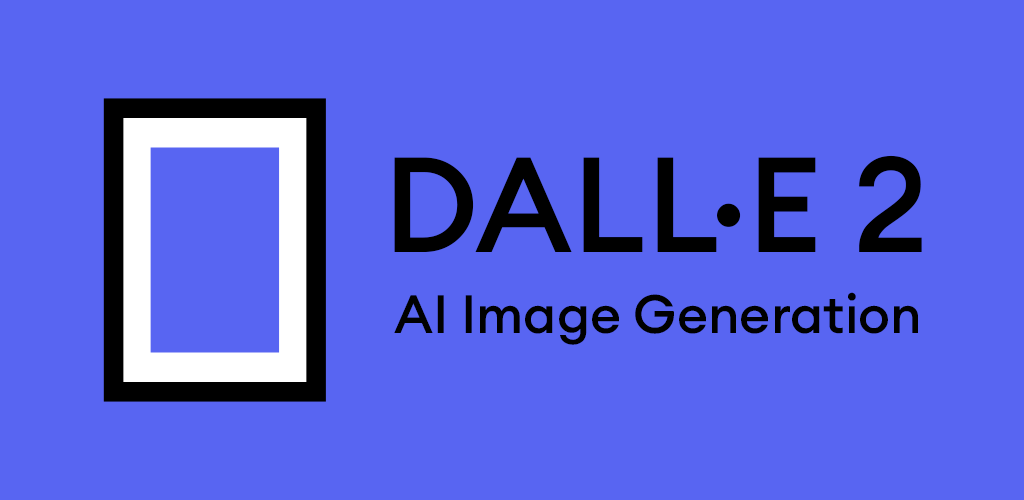
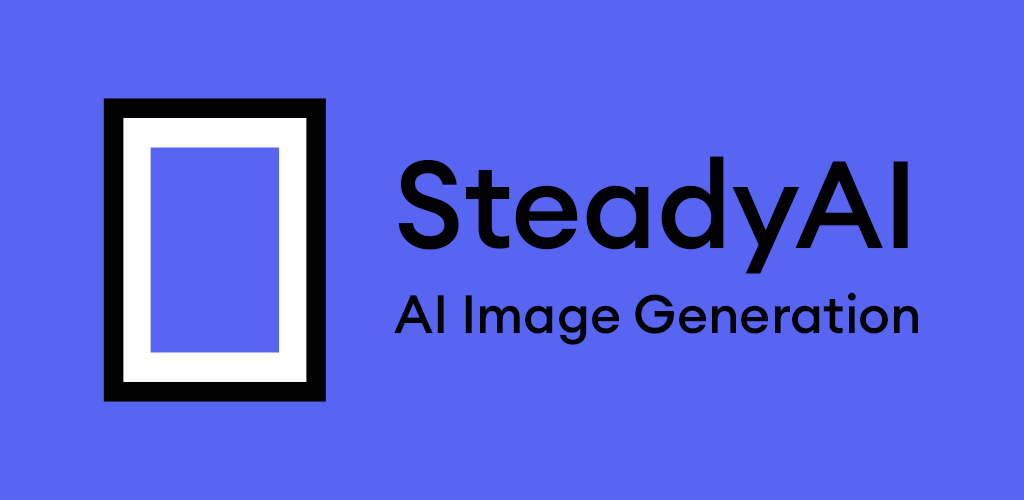
December 2023 update

Changed region(s): [[0.375, 0.3, 0.9062, 0.57]]

diff --git a/index.html b/index.html
@@ -30,12 +30,11 @@
 
             <div class="dalle-card">
                 <a href="https://play.google.com/store/apps/details?id=com.mtw.dev.dalle_2">
-                    
+                    assemble
                     <img src="./images/dalle-banner.png" alt="Dall-E 2 Banner">
-                    <h3>DALL·E 2</h3>
+                    <h3>SteadyAI</h3>
                     <p>
-                        The DALL·E 2 application can create stunning AI generated images with OpenAI's DALL·E 2.<br>
-                        Generated images have extreme quality and are being created ultra fast. 
+                        SteadyAI uses Stable Diffusion XL to create stunning AI-generated images in the highest quality and ChatGPT and even OpenAI's latest GPT-4 model to have top-notch conversations.
                     </p>
                 </a>
                 
@@ -54,6 +53,16 @@
             </div>
         </div>
         
+        <div class="SteadyAI">
+            <h2>SteadyAI</h2>
+            <p>SteadyAI uses Stable Diffusion XL to create stunning AI-generated images in the highest quality, ChatGPT and even OpenAI's latest GPT-4 model to have top-notch conversations, and OpenAI's Davinci to generate creative text completions.</p>
+            <br>
+            <p>Create images with the best AI models like Stable Diffusion with a description in natural language. Choose different styles to give your generations more character and download them to your gallery so they are always available offline.</p>
+            <img src="./images/image_generation-example.png" alt="Example of an image-generation">
+            <p>Chat with either ChatGPT or the most advanced AI model, GPT-4. ChatGPT and GPT-4 can generate human-like answers to text-based questions and solve complex problems with great precision thanks to a vast general knowledge and advanced argumentation skills. They are also suitable for generating creative stories, poems, and writing code.</p>
+            <img src="./images/text_generation-example.png" alt="Example of text-generation">
+            <p>SteadyAI is designed to assist you expanding your creativity and help you with difficult tasks using its collection of AI models.</p>
+        </div>
     </main>
     <footer>
         <svg class="svg" xmlns:xlink="http://www.w3.org/1999/xlink" aria-hidden="true" width="911" height="8" fill="none" xmlns="http://www.w3.org/2000/svg">
@@ -68,7 +77,7 @@
                 <img src="./images/MTW-Development Logo.png" alt="MTW-Development Logo">
             </a>
             <h4>MTW Development</h4>
-            <p>Copyright © 2022</p>
+            <p>Copyright © 2023</p>
         </div>
     </footer>
 </body>

diff --git a/styles.css b/styles.css
@@ -2,7 +2,7 @@ h1 {
     font-family: 'Open Sans', sans-serif;
     font-size: 45px;
     
-    padding: 80px 0px 20px 70px;
+    padding: 80px 70px 20px 70px;
     max-width: 1880px;
     display:block;
     margin:auto;
@@ -11,13 +11,13 @@ h2 {
     font-family: 'Open Sans', sans-serif;
     font-size: 40px;
     
-    padding: 60px 0px 20px 70px;
+    padding: 60px 70px 20px 70px;
 }
 h3 {
     font-family: 'Open Sans', sans-serif;
     font-size: 30px;
 
-    padding: 24px 0px 0px 24px;
+    padding: 24px 70px 0px 24px;
     max-width: 1880px;
     display:block;
     margin:auto;
@@ -36,19 +36,20 @@ header img {
     border-radius: 24px;
     display: block;
     margin-left: auto;
-    margin-right: auto
+    margin-right: auto;
+    margin-top: 40px
 }
 header p {
     font-family: 'Open Sans', sans-serif;
     font-size: 22px;
     
-    padding: 0px 0px 0px 70px;
+    padding: 0px 70px 0px 70px;
     max-width: 1880px;
     display:block;
     margin:auto;
 }
 
-.cards {
+main {
     max-width: 1940px;
     display:block;
     margin:auto;
@@ -77,24 +78,41 @@ header p {
 
 .dalle-card {
     display: inline-block;
-    border-radius: 24px;
+    border-radius: 26px;
     transition: 300ms;
     width: 500px;
     margin: 0px 0px 50px 70px;
 }
 .dalle-card:hover {
-    background: #c2e7ff;
+    background: #c2e7ff70;
 }
 
 .calculator-card {
     display: inline-block;
-    border-radius: 24px;
+    border-radius: 26px;
     transition: 300ms;
     width: 500px;
     margin: 0px 0px 50px 70px;
 }
 .calculator-card:hover {
-    background: #c2e7ff;
+    background: rgba(220, 255, 194, 0.439);
+}
+
+.SteadyAI h2 {
+    padding: 0px 70px 0px 70px;
+}
+
+.SteadyAI p {
+    font-family: 'Open Sans', sans-serif;
+    font-size: 20px;
+    padding: 0px 70px 0px 70px;
+}
+
+.SteadyAI img {
+    width: 530px;
+    display: block; 
+    margin: 0 auto;
+    padding: 0px 70px 20px 70px;
 }
 
 .svg {
@@ -173,5 +191,9 @@ footer p {
         width: 100%;
         padding: 0;
         margin: 0;
+    }
+
+    .SteadyAI img {
+        width: 50%;
     }
 }
